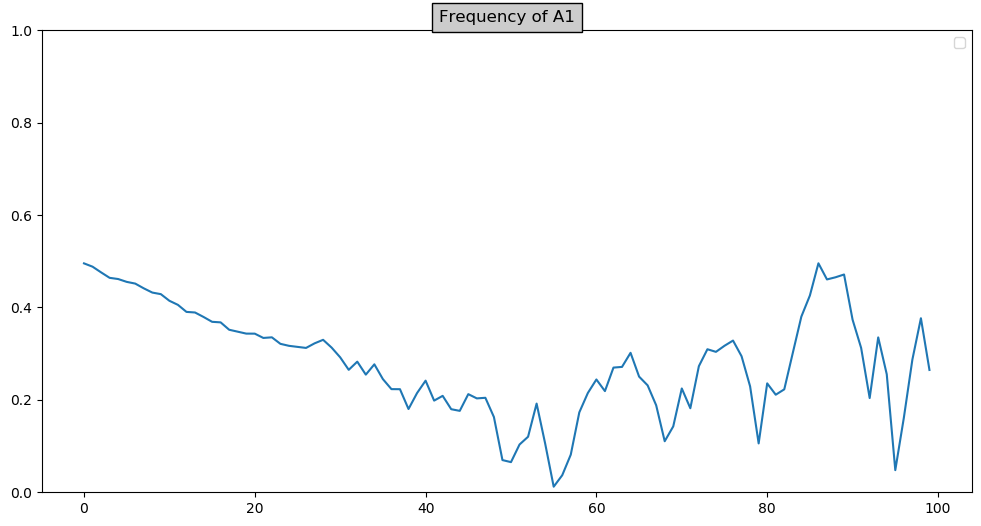
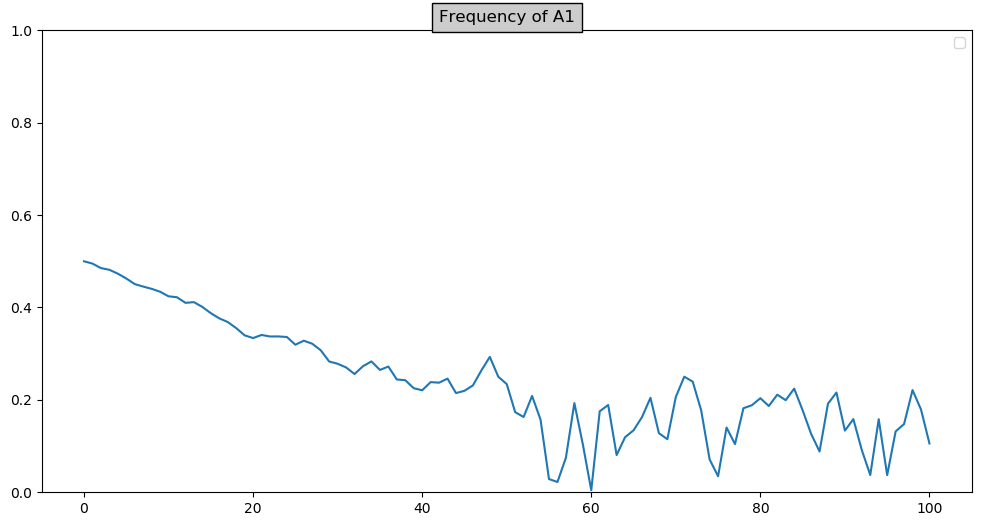
stuff

diff --git a/src/maths.py b/src/maths.py
@@ -44,8 +44,8 @@ def mathything(a1, muta1a2, muta2a1, a1a1fit, a1a2fit, a2a2fit, popsize, gens, r
     a1a1arr = []
     a1a2arr = []
     a2a2arr = []
-    a1arr = []
-    a2arr = []
+    a1arr = [p]
+    a2arr = [q]
     a1a1 = p*p
     a1a2 = 2 * p * q
     a2a2 = q*q
@@ -82,7 +82,9 @@ def mathything(a1, muta1a2, muta2a1, a1a1fit, a1a2fit, a2a2fit, popsize, gens, r
 
         if ifdecreasing:
             population -= (population * ((1-a1a1fit) + (1-a1a2fit) + (1-a2a2fit)))
-    print(population)
+            population = round(population)
+            print(population)
+    # print(population)
     return a1arr
 
 arr = mathything(0.5, 0, 0, 0.97, 1.0, 1.0, 100, 100, "yes", True)
